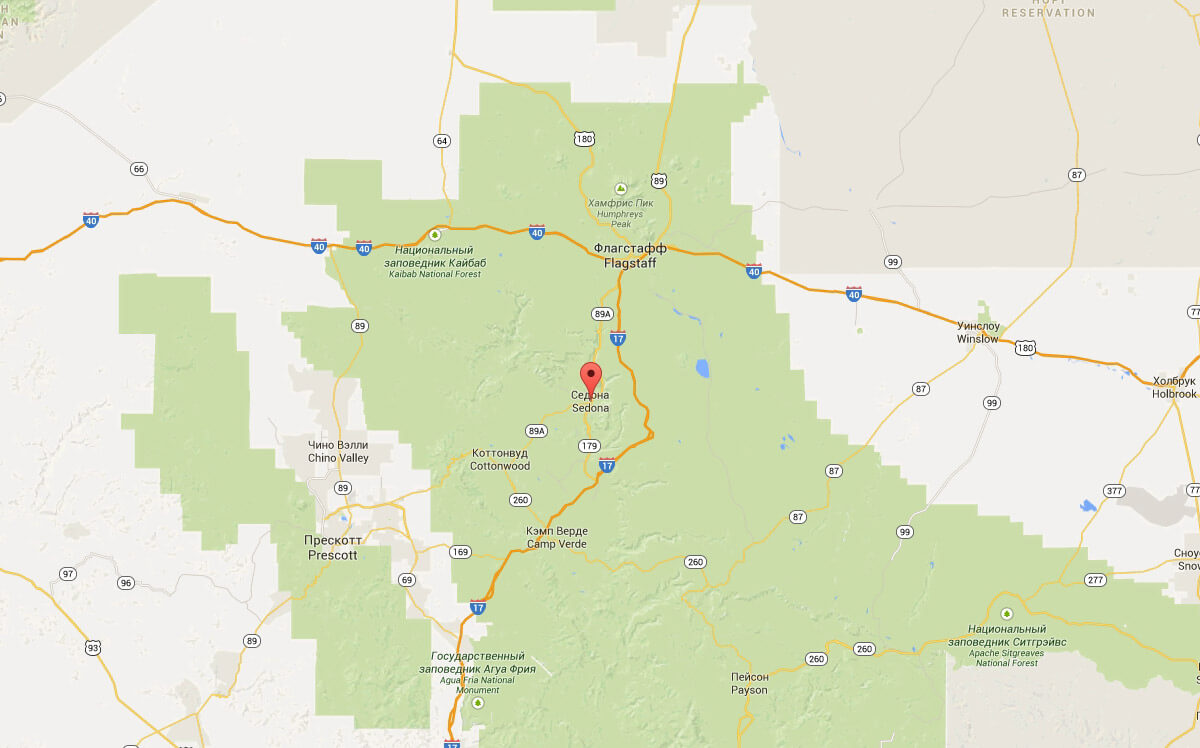
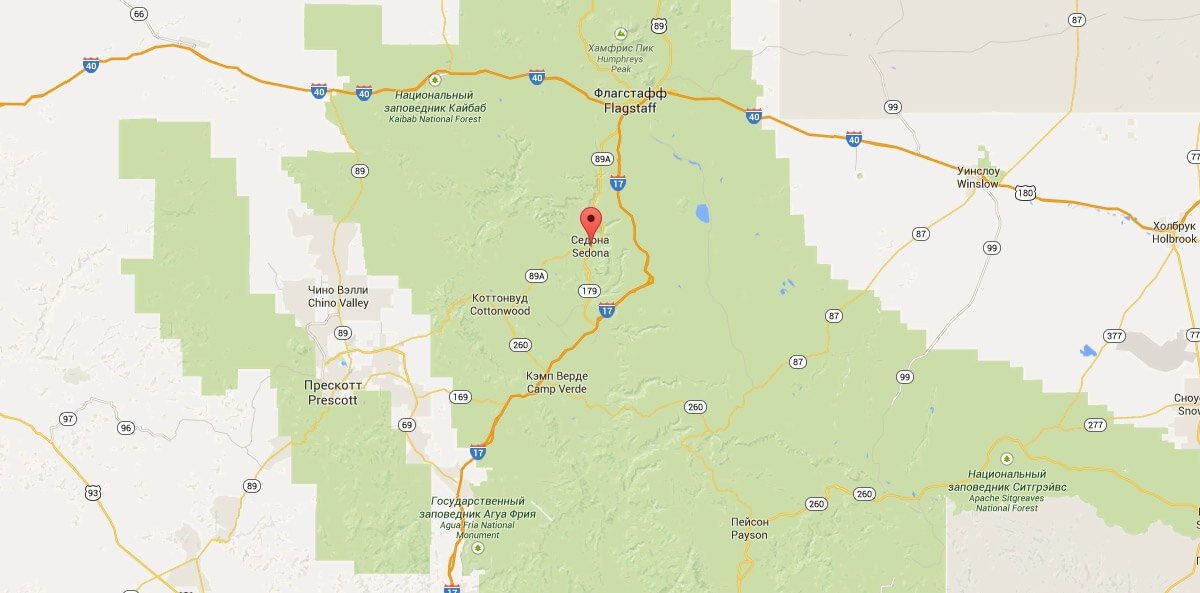
first page

diff --git a/css/style.css b/css/style.css
@@ -1,2 +1,2 @@
-@font-face{font-family:"PT Sans";font-weight:400;font-style:normal;src:local("PT Sans"),local("PTSans-Regular"),url("../fonts/ptsans.woff2") format("woff2"),url("../fonts/ptsans.woff") format("woff")}@font-face{font-family:"PT Sans";font-weight:700;font-style:normal;src:local("PT Sans Bold"),local("PTSans-Bold"),url("../fonts/ptsansbold.woff2") format("woff2"),url("../fonts/ptsansbold.woff") format("woff")}body{margin:0;padding:0;box-sizing:border-box;font-family:"PT Sans", "Arial", sans-serif;font-size:14px;line-height:26px;font-weight:400;text-transform:uppercase;color:#000;background-color:#f2f2f2}*,*::before,*::after{box-sizing:inherit}a{text-decoration:none}ul{margin:0;padding:0;list-style:none}.container{max-width:1200px;min-width:768px;margin:0 auto;background-color:#fff;box-shadow:0 5px 15px rgba(0,1,1,0.2)}.visually-hidden:not(:focus):not(:active),input[type="checkbox"].visually-hidden,input[type="radio"].visually-hidden{position:absolute;width:1px;height:1px;margin:-1px;border:0;padding:0;white-space:nowrap;clip-path:inset(100%);clip:rect(0 0 0 0);overflow:hidden}.nav-list{display:flex}.nav-item{width:20%;height:56px}.nav-item a{display:flex;justify-content:center;align-items:center;height:100%;font-weight:700;color:inherit}.nav-item a:hover,.nav-item a:focus{color:#81b3d2}.nav-item a:active{color:rgba(0,0,0,0.3)}.nav-item .active{color:#766357}.nav-item-logo{line-height:0}.nav-item-logo .page-header-logo{height:70px}.promo{width:100%;height:508px;margin-bottom:61px;padding-top:76px;background:url(../img/promo-layer.png) center bottom no-repeat,#d5e3ec url(../img/bg-sedona.jpg) center 28% no-repeat;background-size:100% auto, cover}.promo img{display:block;margin:0 auto}.advantages-list{display:flex;flex-wrap:wrap}.advantages-title{margin:0;margin-bottom:27px;text-align:center;font-size:21px;font-weight:700}.advantages-desc{margin:0;margin-bottom:50px;text-align:center;color:#333}.advantage-item{width:calc(100%/3);min-height:256px;padding:47px 5% 10px;text-align:center}.advantage-town-item{position:relative;width:calc(100%/3);min-height:330px;padding:161px 5% 10px;text-align:center}.advantage-town-item::before{content:"";position:absolute;top:0;left:50%;-webkit-transform:translate(-50%);transform:translate(-50%)}.advantage-town-item .advantage-item-title{margin-bottom:24px}.advantage-housing::before{top:60px;width:75px;height:72px;background:url(../img/icon-housing.svg) no-repeat}.advantage-food::before{top:61px;width:74px;height:70px;background:url(../img/icon-food.svg) no-repeat}.advantage-souvenirs::before{top:56px;width:64px;height:76px;background:url(../img/icon-souvenirs.svg) no-repeat}.advantage-item-title{margin:0 12% 20px;font-size:21px;font-weight:700;line-height:21px}.advantage-item-number{margin:0;margin-bottom:20px;color:#333}.advantage-item-desc{margin:0;color:#333;line-height:21px}.advantage-item:nth-child(1),.advantage-item:nth-child(5){display:flex;width:100%;padding:0}.advantage-item:nth-child(1) .wrapper,.advantage-item:nth-child(5) .wrapper{width:calc(100% / 3);padding:47px 5% 10px;background-color:#81b3d2}.advantage-item:nth-child(1) .advantage-item-title,.advantage-item:nth-child(1) .advantage-item-number,.advantage-item:nth-child(1) .advantage-item-desc,.advantage-item:nth-child(5) .advantage-item-title,.advantage-item:nth-child(5) .advantage-item-number,.advantage-item:nth-child(5) .advantage-item-desc{color:#fff}.advantage-item:nth-child(1) .advantage-item-img,.advantage-item:nth-child(5) .advantage-item-img{width:calc(100% / 3 * 2)}.advantage-item:nth-child(1) .advantage-item-img{background:#aa8a7d url(../img/town.jpg) center no-repeat;background-size:cover}.advantage-item:nth-child(5) .advantage-item-img{background:#e2b29c url(../img/bridge.jpg) center no-repeat;background-size:cover}.advantages-town-list{width:100%}.advantage-item:nth-last-child(-n+3){background-color:#eee}.btn{display:inline-block;font-size:21px;font-weight:700;text-transform:uppercase;color:#fff;border:none}.hotels{text-align:center}.hotels-title{font-size:30px;font-weight:700;line-height:36px}.hotels-desc{line-height:24px}.hotels-btn{width:568px;padding:31px 0;background-color:#766357;transition:background-color .3s}.hotels-btn:hover,.hotels-btn:focus{background-color:#604e43}.hotels-btn:active{color:rgba(255,255,255,0.3);background-color:#503e33}.container-form-hotels{position:relative;margin:0 auto;width:568px}.form-hotels{position:absolute;top:0;left:0;right:0;height:0;overflow:hidden;padding:0 55px;background-color:#fff;box-shadow:0 7px 15px rgba(0,1,1,0.15);transition:0.4s}.form-hotels .submit-btn{width:100%;padding:17px 0;background-color:#81b3d2}.form-hotels .submit-btn:hover,.form-hotels .submit-btn:focus{background-color:#669ec0}.form-hotels .submit-btn:active{color:rgba(255,255,255,0.3);background-color:#5496bd}.form-hotels.active{padding:55px;height:395px}.form-hotels-group{display:flex;margin:0;margin-bottom:30px;font-weight:700}.form-hotels-group:last-of-type{margin-bottom:54px}.form-hotels-group label{width:112px;padding:5px 0;font-size:14px;text-align:left;vertical-align:middle}.form-hotels-group input{flex-grow:1;padding:5px 13px;font-size:14px;font-weight:700;line-height:26px;text-transform:uppercase;background-color:#f2f2f2;border:none}.form-hotels-group input:hover{background-color:#ebebeb}.form-hotels-group input:focus{outline:2px solid #e5e5e5;background-color:#fff}.form-hotels-group input[type="number"]{width:114px;text-align:center}.form-hotels-group label[for="children-field"]{padding-right:27px;text-align:right}.map{max-width:100%;height:auto}
+@font-face{font-family:"PT Sans";font-weight:400;font-style:normal;src:local("PT Sans"),local("PTSans-Regular"),url("../fonts/ptsans.woff2") format("woff2"),url("../fonts/ptsans.woff") format("woff")}@font-face{font-family:"PT Sans";font-weight:700;font-style:normal;src:local("PT Sans Bold"),local("PTSans-Bold"),url("../fonts/ptsansbold.woff2") format("woff2"),url("../fonts/ptsansbold.woff") format("woff")}body{margin:0;padding:0;box-sizing:border-box;font-family:"PT Sans", "Arial", sans-serif;font-size:14px;line-height:26px;font-weight:400;text-transform:uppercase;color:#000;background-color:#f2f2f2}*,*::before,*::after{box-sizing:inherit}a{text-decoration:none}ul{margin:0;padding:0;list-style:none}.container{max-width:1200px;min-width:768px;margin:0 auto;background-color:#fff;box-shadow:0 5px 15px rgba(0,1,1,0.2)}.visually-hidden:not(:focus):not(:active),input[type="checkbox"].visually-hidden,input[type="radio"].visually-hidden{position:absolute;width:1px;height:1px;margin:-1px;border:0;padding:0;white-space:nowrap;clip-path:inset(100%);clip:rect(0 0 0 0);overflow:hidden}.nav-list{display:flex}.nav-item{width:20%;height:56px}.nav-item a{display:flex;justify-content:center;align-items:center;height:100%;font-weight:700;color:inherit}.nav-item a:hover,.nav-item a:focus{color:#81b3d2}.nav-item a:active{color:rgba(0,0,0,0.3)}.nav-item .active{color:#766357}.nav-item-logo{line-height:0}.nav-item-logo .page-header-logo{height:70px}.promo{width:100%;height:508px;margin-bottom:61px;padding-top:76px;background:url(../img/promo-layer.png) center bottom no-repeat,#d5e3ec url(../img/bg-sedona.jpg) center 28% no-repeat;background-size:100% auto, cover}.promo img{display:block;margin:0 auto}.advantages-list{display:flex;flex-wrap:wrap}.advantages-title{margin:0;margin-bottom:27px;text-align:center;font-size:21px;font-weight:700}.advantages-desc{margin:0;margin-bottom:50px;text-align:center;color:#333}.advantage-item{width:calc(100%/3);min-height:256px;padding:47px 5% 10px;text-align:center}.advantage-town-item{position:relative;width:calc(100%/3);min-height:330px;padding:161px 5% 10px;text-align:center}.advantage-town-item::before{content:"";position:absolute;top:0;left:50%;-webkit-transform:translate(-50%);transform:translate(-50%)}.advantage-town-item .advantage-item-title{margin-bottom:24px}.advantage-housing::before{top:60px;width:75px;height:72px;background:url(../img/icon-housing.svg) no-repeat}.advantage-food::before{top:61px;width:74px;height:70px;background:url(../img/icon-food.svg) no-repeat}.advantage-souvenirs::before{top:56px;width:64px;height:76px;background:url(../img/icon-souvenirs.svg) no-repeat}.advantage-item-title{margin:0 12% 20px;font-size:21px;font-weight:700;line-height:21px}.advantage-item-number{margin:0;margin-bottom:20px;color:#333}.advantage-item-desc{margin:0;color:#333;line-height:21px}.advantage-item:nth-child(1),.advantage-item:nth-child(5){display:flex;width:100%;padding:0}.advantage-item:nth-child(1) .wrapper,.advantage-item:nth-child(5) .wrapper{width:calc(100% / 3);padding:47px 5% 10px;background-color:#81b3d2}.advantage-item:nth-child(1) .advantage-item-title,.advantage-item:nth-child(1) .advantage-item-number,.advantage-item:nth-child(1) .advantage-item-desc,.advantage-item:nth-child(5) .advantage-item-title,.advantage-item:nth-child(5) .advantage-item-number,.advantage-item:nth-child(5) .advantage-item-desc{color:#fff}.advantage-item:nth-child(1) .advantage-item-img,.advantage-item:nth-child(5) .advantage-item-img{width:calc(100% / 3 * 2)}.advantage-item:nth-child(1) .advantage-item-img{background:#aa8a7d url(../img/town.jpg) center no-repeat;background-size:cover}.advantage-item:nth-child(5) .advantage-item-img{background:#e2b29c url(../img/bridge.jpg) center no-repeat;background-size:cover}.advantages-town-list{width:100%}.advantage-item:nth-last-child(-n+3){background-color:#eee}.btn{display:inline-block;font-size:21px;font-weight:700;text-transform:uppercase;color:#fff;border:none}.hotels{text-align:center}.hotels-title{margin:50px 0 24px;font-size:30px;font-weight:700;line-height:36px}.hotels-desc{margin:0;margin-bottom:47px;line-height:24px}.hotels-btn{width:568px;padding:31px 0;background-color:#766357;transition:background-color .3s}.hotels-btn:hover,.hotels-btn:focus{background-color:#604e43}.hotels-btn:active{color:rgba(255,255,255,0.3);background-color:#503e33}.container-form-hotels{position:relative;margin:0 auto;width:568px}.form-hotels{position:absolute;top:0;left:0;right:0;height:0;overflow:hidden;padding:0 55px;background-color:#fff;box-shadow:0 7px 15px rgba(0,1,1,0.15);transition:0.4s;z-index:1}.form-hotels .submit-btn{width:100%;padding:17px 0;background-color:#81b3d2}.form-hotels .submit-btn:hover,.form-hotels .submit-btn:focus{background-color:#669ec0}.form-hotels .submit-btn:active{color:rgba(255,255,255,0.3);background-color:#5496bd}.form-hotels.active{padding:55px;height:395px}.form-hotels-group{display:flex;margin:0;margin-bottom:30px;font-weight:700}.form-hotels-group:last-of-type{margin-bottom:54px}.form-hotels-group label{width:112px;padding:5px 0;font-size:14px;text-align:left;vertical-align:middle}.form-hotels-group input{flex-grow:1;padding:5px 13px;font-size:14px;font-weight:700;line-height:26px;text-transform:uppercase;background-color:#f2f2f2;border:none}.form-hotels-group input:hover{background-color:#ebebeb}.form-hotels-group input:focus{outline:2px solid #e5e5e5;background-color:#fff}.form-hotels-group input[type="number"]{width:114px;text-align:center}.form-hotels-group label[for="children-field"]{padding-right:27px;text-align:right}.map{position:relative;width:100%;height:593px;overflow:hidden}.page-footer{position:absolute;bottom:0;left:0;right:0;display:flex;justify-content:space-around;align-items:center;min-height:120px;padding-left:12px;background-color:rgba(255,255,255,0.9)}.hashtag{margin:0;font-size:21px;font-weight:700}.footer-social{display:flex}.footer-social .social-item{margin-right:6px}.social-link{display:flex;justify-content:center;align-items:center;width:46px;height:48px;background-color:#81b3d2;transition:.2s}.social-link:hover,.social-link:focus{background-color:#669ec0}.social-link:active{background-color:#5496bd}.social-link:active svg{opacity:.3}.copyright{display:flex}.copyright p{margin:5px 8px 0 0}.copyright svg{transition:.3s}.copyright svg:hover,.copyright svg:focus{fill:#81b3d2}.copyright svg:active{fill:#bdbbbc}
 /*# sourceMappingURL=style.css.map */

diff --git a/index.html b/index.html
@@ -84,6 +84,7 @@
 		</section>
 
 		<section class="hotels">
+			<h2 class="visually-hidden">Поиск гостинниц</h2>
 			<p class="hotels-title"><b>Заинтересовались?</b></p>
 			<p class="hotels-desc">Укажите предполагаемые даты поездки,<br>и мы покажем вам лучшие предложения гостиниц в Седоне</p>
 			<button class="btn hotels-btn" type="button">Поиск гостинницы в Седоне</button>
@@ -106,9 +107,37 @@
 					<button class="btn submit-btn">Найти</button>
 				</form>
 			</div>
-			
-			<img class="map" src="img/map.jpg" alt="Седона на карте" width="1200" height="748">
 		</section>
+		<div class="map">
+			<img src="img/map.jpg" alt="Седона на карте" width="1200" height="593">
+			<footer class="page-footer">
+				<p class="hashtag">#visitsedona</p>
+				<ul class="footer-social">
+					<li class="social-item">
+						<a href="#" class="social-link" target="_blank" aria-label="Twitter">
+							<svg xmlns="http://www.w3.org/2000/svg" xmlns:xlink="http://www.w3.org/1999/xlink" width="17" height="15"><path fill="#FFF" d="M10.95.144c1.685-.496 2.984.27 3.577 1.179.673-.231 1.331-.481 2.011-.708-.004.861-.522 1.513-.857 1.768.685.17 1.304-.491 1.304-.491-.169 1-1.006 1.788-1.563 2.024-.231 6.75-3.175 11.217-10.077 11.082h-.446c-.41 0-4.164-.46-4.898-1.887 2.271.196 3.893-.422 4.693-1.177-.96-.3-2.679-.477-2.979-2.95.349.106.564.228 1.19.119C1.705 8.247.374 7.53.448 5.33c.285.328 1.067.536 1.34.472C1.085 5.561-.182 2.442.894.85c1.818 1.854 3.735 3.606 7.152 3.773C8.254 2.33 9.183.793 10.95.144z"/></svg>
+						</a>
+					</li>
+					<li class="social-item">
+						<a href="#" class="social-link" target="_blank" aria-label="Facebook">
+							<svg xmlns="http://www.w3.org/2000/svg" width="12" height="22"><path fill="#FFF" d="M12 4V0H8C5.791 0 4 1.791 4 4v4H0v4h4v10h4V12h4V8H8V4h4z"/></svg>
+						</a>
+					</li>
+					<li class="social-item">
+						<a href="#" class="social-link" target="_blank" aria-label="YouTube">
+							<svg xmlns="http://www.w3.org/2000/svg" xmlns:xlink="http://www.w3.org/1999/xlink" width="20" height="16"><path fill="#FFF" d="M17 0H3C1.35 0 0 1.35 0 3v10c0 1.65 1.35 3 3 3h14c1.65 0 3-1.35 3-3V3c0-1.65-1.35-3-3-3zM6.027 11.998V4.002L15.014 8l-8.987 3.998z"/></svg>
+						</a>
+					</li>
+				</ul>
+				<div class="copyright">
+					<p>Website by</p>
+					<a href="https://htmlacademy.ru/intensive/htmlcss" target="_blank">
+						<svg width="113" height="39" xmlns="http://www.w3.org/2000/svg" viewBox="0 0 113 39"><path d="M46.84 28.22a2.07 2.07 0 0 0 .58-.11v1.4a3.41 3.41 0 0 1-1.24.22 1.75 1.75 0 0 1-1.75-1 5.08 5.08 0 0 1-3.3 1.13c-1.59 0-3.06-.87-3.06-2.68 0-2.24 2.08-2.93 3.9-2.93a11.63 11.63 0 0 1 2.28.26v-.31c0-1.09-.8-1.86-2.3-1.86a7.79 7.79 0 0 0-3.15.67v-1.79a10.72 10.72 0 0 1 3.35-.58c2.48 0 4 1.18 4 3.83v3.14a.57.57 0 0 0 .69.61zm-6.76-1.19a1.42 1.42 0 0 0 1.64 1.29 3.56 3.56 0 0 0 2.53-1v-1.51a10.21 10.21 0 0 0-1.9-.22c-1.1.01-2.27.35-2.27 1.45zM53.06 20.62a5.29 5.29 0 0 1 2.7.67v1.79a4.28 4.28 0 0 0-2.42-.73 2.89 2.89 0 1 0 0 5.76 5.26 5.26 0 0 0 2.55-.67v1.8a6.58 6.58 0 0 1-2.9.6 4.42 4.42 0 0 1-4.72-4.54 4.54 4.54 0 0 1 4.79-4.68zM65.84 28.22a2.07 2.07 0 0 0 .58-.11v1.4a3.41 3.41 0 0 1-1.24.22 1.75 1.75 0 0 1-1.75-1 5.08 5.08 0 0 1-3.3 1.13c-1.59 0-3.06-.87-3.06-2.68 0-2.24 2.08-2.93 3.9-2.93a11.63 11.63 0 0 1 2.28.26v-.31c0-1.09-.8-1.86-2.3-1.86a7.79 7.79 0 0 0-3.15.67v-1.79a10.72 10.72 0 0 1 3.35-.58c2.48 0 4 1.18 4 3.83v3.14a.57.57 0 0 0 .69.61zm-6.76-1.19a1.42 1.42 0 0 0 1.64 1.29 3.56 3.56 0 0 0 2.53-1v-1.51a10.21 10.21 0 0 0-1.9-.22c-1.11.01-2.27.35-2.27 1.45zM76.67 16.85v12.76h-1.76v-1.39a4.07 4.07 0 0 1-3.35 1.62 4.62 4.62 0 0 1 0-9.22 4 4 0 0 1 3.15 1.37v-5.14h2zm-4.76 5.48a2.9 2.9 0 0 0 0 5.8 3 3 0 0 0 2.79-1.84v-2.13a3.06 3.06 0 0 0-2.79-1.83zM82.99 20.62c3.48 0 4.68 2.81 4.12 5.34h-6.58c.22 1.57 1.75 2.22 3.35 2.22a6.41 6.41 0 0 0 2.77-.62v1.68a7.5 7.5 0 0 1-3.14.6c-2.68 0-5-1.53-5-4.61a4.39 4.39 0 0 1 4.48-4.61zm.09 1.62a2.39 2.39 0 0 0-2.57 2.26h4.85a2.06 2.06 0 0 0-2.28-2.26zM89.1 29.61v-8.75h1.73v1.09a4 4 0 0 1 2.92-1.33 3 3 0 0 1 2.73 1.4 4.33 4.33 0 0 1 3.06-1.4 3.21 3.21 0 0 1 3.32 3.52v5.47h-2V24.2a1.67 1.67 0 0 0-1.73-1.84 2.94 2.94 0 0 0-2.17 1.18V29.61h-2V24.2a1.67 1.67 0 0 0-1.73-1.84 3.11 3.11 0 0 0-2.32 1.35v5.91h-2zM111.47 20.86h2l-4.1 9.93c-.95 2.28-2.19 3-3.52 3a5 5 0 0 1-1.15-.15v-1.66a3 3 0 0 0 .89.13c.95 0 1.66-.67 2.17-2l.18-.44-4.16-8.82h2.13l3 6.6zM40.66 1.53v5a4 4 0 0 1 2.83-1.2A3.41 3.41 0 0 1 47.1 8.9v5.41h-2V9.15a1.9 1.9 0 0 0-2-2.1 3.08 3.08 0 0 0-2.44 1.46v5.8h-2V1.53h2zM52.43 2.42v3.12h3.17v1.71h-3.17v4c0 1.15.53 1.53 1.66 1.53a4.71 4.71 0 0 0 1.77-.35v1.68a7.14 7.14 0 0 1-2.35.38 2.68 2.68 0 0 1-3-2.88V7.23h-1.6V5.52h1.57V2.88zM58.1 14.29V5.54h1.73v1.09a4 4 0 0 1 2.92-1.33 3 3 0 0 1 2.73 1.4 4.33 4.33 0 0 1 3.06-1.4 3.21 3.21 0 0 1 3.32 3.52v5.47h-2V8.88a1.67 1.67 0 0 0-1.73-1.84 2.94 2.94 0 0 0-2.17 1.18V14.29h-2V8.88a1.67 1.67 0 0 0-1.73-1.84 3.11 3.11 0 0 0-2.32 1.35v5.91h-2zM74.72 1.52h1.95v12.76h-1.95zM15.44.02h-.16L0 1.62v28l15.28 9.09 15.28-9.09v-28zm13.12 28.45l-13.28 7.9L2 28.47V16.99l13.22 7.87v1.43l-9.07-5.4v1.38l9.11 5.47v1.46l-9.1-5.42v1.38l9.11 5.47 9.19-5.5V19.22l4.1-2.45v11.67zm0-13.16l-3.65 2.14-1.68 1-8-4.76v1.38l6.84 4.07h-.06l-.15.09-1 .57-5.64-3.36v1.38l4.45 2.65-1.05.7-3.36-2v1.38l2.21 1.3-2.25 1.35-13.16-7.82 13.17-7.92zm0-1.39L15.21 6.05l-13.2 7.86V3.41l13.28-1.39 13.28 1.39v10.51z"/></svg>
+					</a>
+				</div>
+			</footer>
+		</div>
+		
 	</main>
 </div>
 <script src="js/script.js"></script>

diff --git a/css/style.scss b/css/style.scss
@@ -267,12 +267,15 @@ input[type="radio"].visually-hidden {
 }
 
 .hotels-title {
+	margin: 50px 0 24px;
 	font-size: 30px;
 	font-weight: 700;
 	line-height: 36px;
 }
 
 .hotels-desc {
+	margin: 0;
+	margin-bottom: 47px;
 	line-height: 24px;
 }
 
@@ -310,6 +313,7 @@ input[type="radio"].visually-hidden {
 	background-color: #fff;
 	box-shadow: 0 7px 15px rgba(0, 1, 1, .15);
 	transition: 0.4s;
+	z-index: 1;
 
 	.submit-btn {
 		width: 100%;
@@ -383,8 +387,81 @@ input[type="radio"].visually-hidden {
 }
 
 .map {
-	max-width: 100%;
-	height: auto;
+	position: relative;
+	width: 100%;
+	height: 593px;
+	overflow: hidden;
+}
+
+.page-footer {
+	position: absolute;
+	bottom: 0;
+	left: 0;
+	right: 0;
+	display: flex;
+	justify-content: space-around;
+	align-items: center;
+	min-height: 120px;
+	padding-left: 12px;
+	background-color: rgba(255, 255, 255, .9);
+}
+
+.hashtag {
+	margin: 0;
+	font-size: 21px;
+	font-weight: 700;
+}
+
+.footer-social {
+	display: flex;
+
+	.social-item {
+		margin-right: 6px;
+	}
+}
+
+.social-link {
+	display: flex;
+	justify-content: center;
+	align-items: center;
+	width: 46px;
+	height: 48px;
+	background-color: #81b3d2;
+	transition: .2s;
+
+	&:hover,
+	&:focus {
+		background-color: #669ec0;
+	}
+
+	&:active {
+		background-color: #5496bd;
+	}
+
+	&:active svg {
+		opacity: .3;
+	}
+}
+
+.copyright {
+	display: flex;
+
+	p {
+		margin: 5px 8px 0 0;
+	}
+
+	svg {
+		transition: .3s;
+	}
+
+	svg:hover, 
+	svg:focus {
+		fill: #81b3d2;
+	}
+
+	svg:active {
+		fill: #bdbbbc;
+	}
 }
 
 
